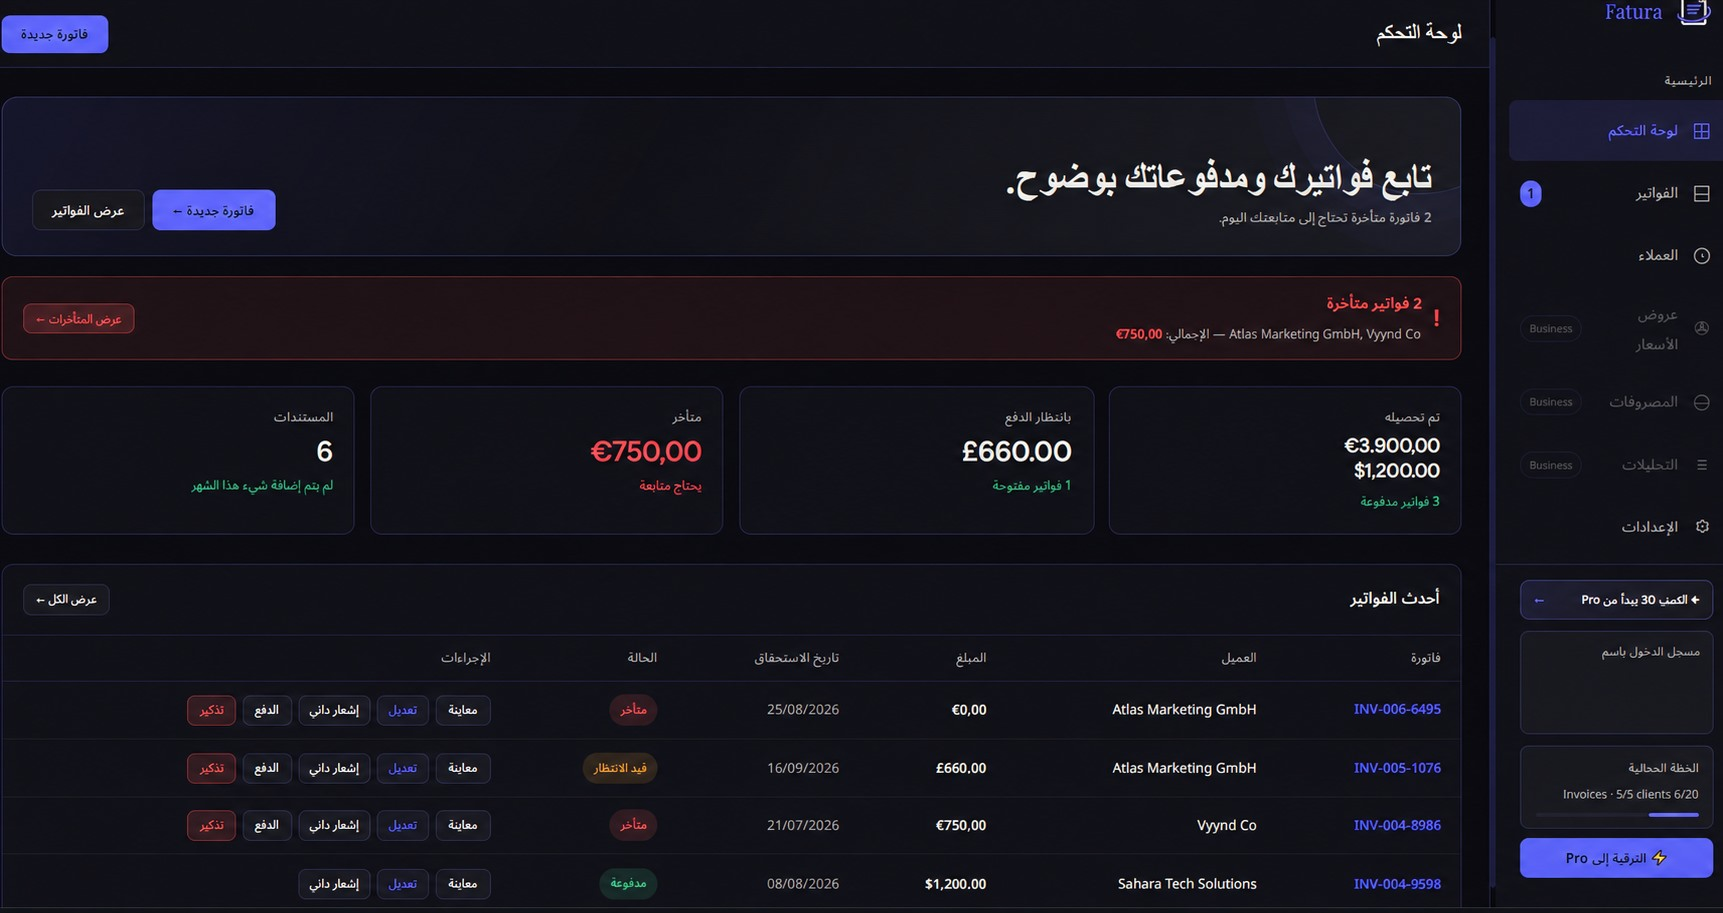
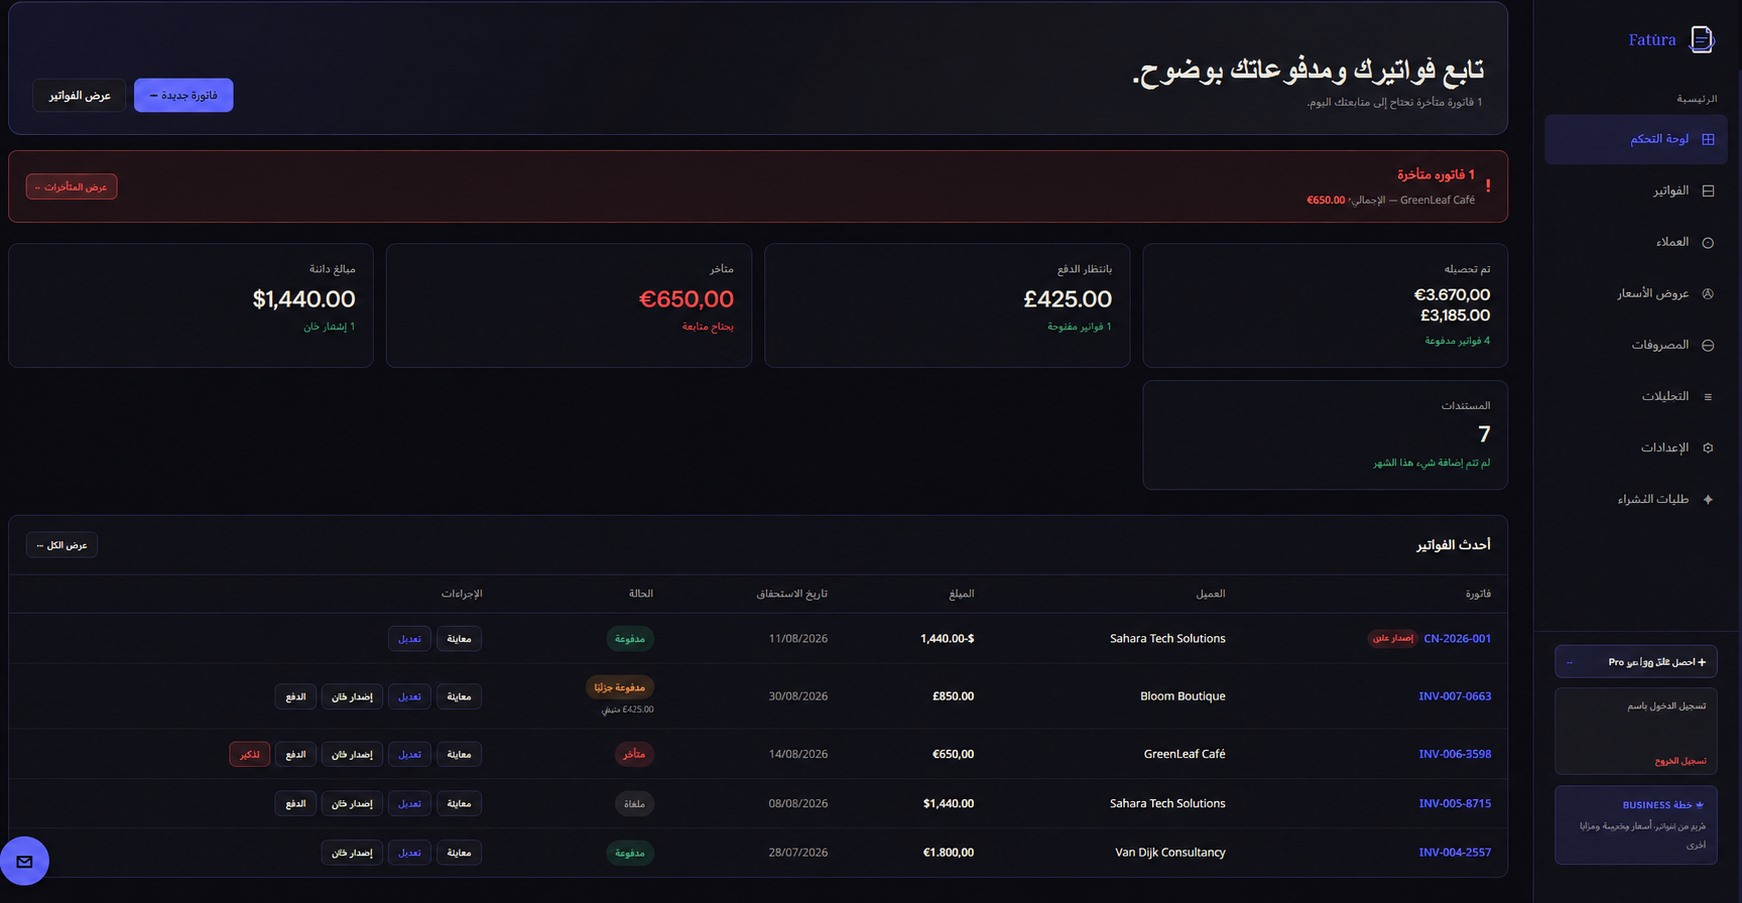
Use Business dashboard in Arabic hero

diff --git a/public/ar.html b/public/ar.html
@@ -48,7 +48,7 @@
   <main>
     <section class="hero"><div class="wrap hero-grid">
       <div><div class="kicker">برنامج فواتير متعدد اللغات لأصحاب المشاريع</div><h1>مشروعك في أي مكان. <em>فواتيرك بالعربية.</em></h1><p class="lead">أنشئ الفواتير وعروض الأسعار، نظّم العملاء والمصروفات، واعمل بواجهة عربية واضحة. من المستقلين إلى أصحاب المشاريع حول العالم، اختر لغة الفاتورة المناسبة لعميلك بشكل مستقل عن لغة واجهتك.</p><div class="actions"><a class="button js-campaign-link" href="/login?signup=1&amp;lang=ar">ابدأ مجانًا</a><a class="button secondary" href="#features">شاهد كيف يعمل</a></div><div class="micro">من دون بطاقة ائتمان · يبدأ كل حساب جديد بتجربة Pro لمدة 7 أيام</div></div>
-      <figure class="visual dashboard-visual" aria-label="معاينة حقيقية للوحة تحكم FaturaPro بالعربية"><img src="/ar-dashboard-preview.jpg" width="1723" height="913" alt="لوحة تحكم FaturaPro بالعربية تعرض ملخص الفواتير والمدفوعات والعملاء" fetchpriority="high" decoding="async" /></figure>
+      <figure class="visual dashboard-visual" aria-label="معاينة حقيقية للوحة تحكم FaturaPro Business بالعربية"><img src="/ar-dashboard-preview.jpg" width="1742" height="903" alt="لوحة تحكم FaturaPro Business بالعربية تعرض ملخص الفواتير والمدفوعات والعملاء" fetchpriority="high" decoding="async" /></figure>
     </div></section>
 
     <section id="features"><div class="wrap"><div class="section-head"><div class="eyebrow">كل ما تحتاجه للفوترة اليومية</div><h2 class="section-title">واجهة عربية، <em>ومستندات بلغة عميلك.</em></h2><p>لغة لوحة التحكم لا تفرض لغة الفاتورة. يمكنك العمل بالعربية وإصدار فاتورة هولندية أو إنجليزية أو فرنسية أو عربية.</p></div><div class="grid">
